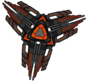
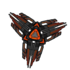
refactor: rezise all contents

diff --git a/spaceinvaders/src/model/aliens/AlienQueue.cs b/spaceinvaders/src/model/aliens/AlienQueue.cs
@@ -22,7 +22,7 @@ public class AlienQueue : IEnemyEntity
             case AlienEnum.SHOOTER:
                 int ENEMY_LIMIT = 11;
                 for (int i = 1; i <= ENEMY_LIMIT; i++) {
-                    int MARGIN = 90;
+                    int MARGIN = 80;
                     enemies.Add(new ShooterEnemy(contentManager, spriteBatch, _graphics, i * MARGIN));
                 }
                 break;
@@ -33,16 +33,21 @@ public class AlienQueue : IEnemyEntity
     {
         foreach (IEnemyGroup enemy in enemies) {
             enemy.IncreaseX(1);
+
+            if (enemy.Bounds.Position.X + enemy.GetTexture().Width >= _graphics.PreferredBackBufferWidth) {
+                enemies.ForEach(e => e.SetInitialPosition());
+            }
         }
     }
 
     public void OnCollision(CollisionEventArgs collisionInfo)
     {
-        throw new System.NotImplementedException();
+        //
     }
 
     public void Draw()
     {
+        //
     }
 
     public bool IsDead()

diff --git a/spaceinvaders/src/model/aliens/ships/RedEnemy.cs b/spaceinvaders/src/model/aliens/ships/RedEnemy.cs
@@ -13,7 +13,7 @@ public class RedEnemy : IEnemyEntity
     private readonly SpriteBatch _spriteBatch;
     private readonly Texture2D _texture;
     private bool isDead = false;
-    private readonly float ALIEN_SPEED_X = 4f;
+    private readonly float ALIEN_SPEED_X = 2.5f;
     private readonly Random random = new();
     private readonly int isRightOrLeft;
 

diff --git a/spaceinvaders/src/model/aliens/ships/queue-aliens/ShooterEnemy.cs b/spaceinvaders/src/model/aliens/ships/queue-aliens/ShooterEnemy.cs
@@ -59,4 +59,8 @@ public class ShooterEnemy : IEnemyGroup
     public void IncreaseX(int value) {
         Bounds.Position += new Vector2(value, 0);
     }
+
+    public Texture2D GetTexture() {
+        return _texture;
+    }
 }

diff --git a/spaceinvaders/src/model/aliens/ships/queue-aliens/EnemyGroup.cs b/spaceinvaders/src/model/aliens/ships/queue-aliens/EnemyGroup.cs
@@ -1,4 +1,7 @@
+using Microsoft.Xna.Framework.Graphics;
+
 public interface IEnemyGroup : IEnemyEntity {
     public void IncreaseX(int x);
     public void SetInitialPosition();
+    public Texture2D GetTexture();
 }
